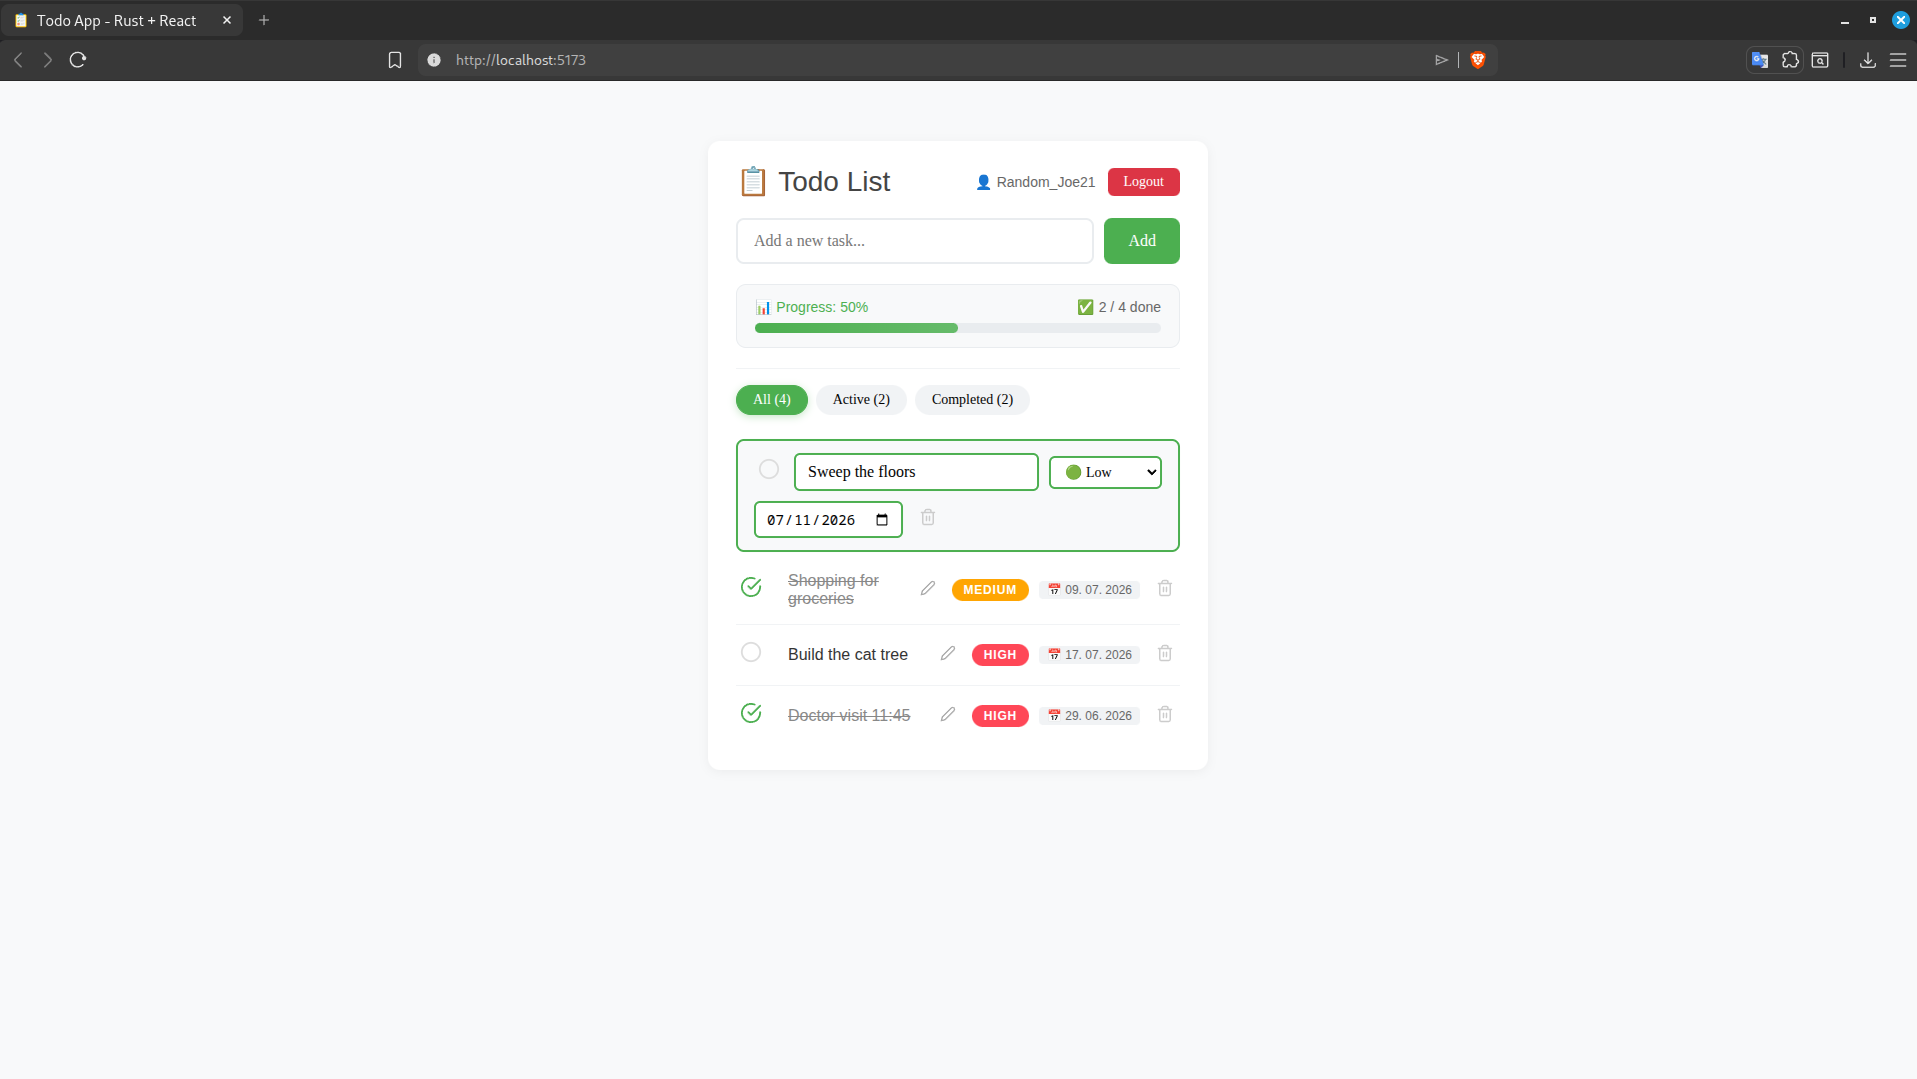
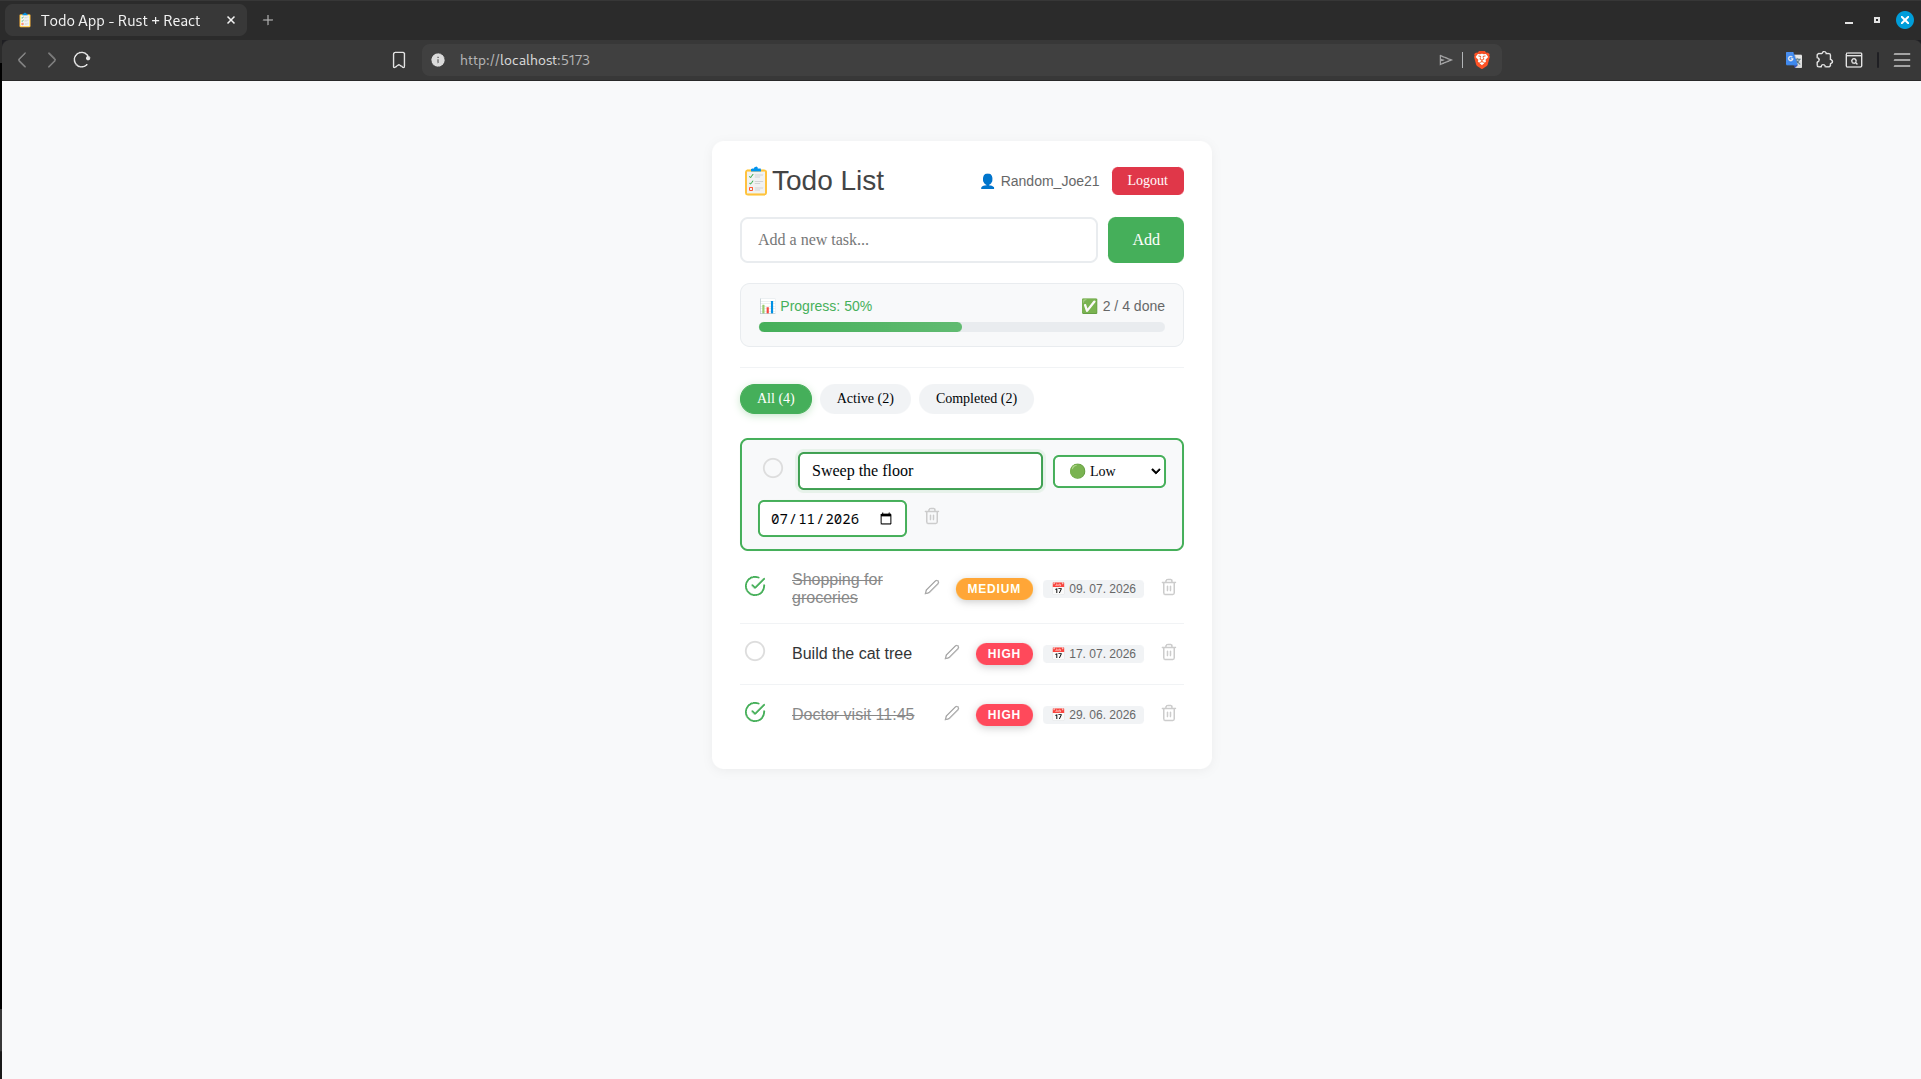
docs: update README and demo screenshot
- Update project structure with new migrations and auth modules
- Fix database schema formatting in README
- Add user_id column and indexes to tasks table
- Update setup instructions with database initialization
- Refresh demo screenshot to reflect latest UI changes

diff --git a/README.md b/README.md
@@ -44,7 +44,8 @@ todo-app-rs/
 │   ├── migrations/          # SQL migrations
 │   │   ├── 20240610000000_create_tasks.sql
 │   │   ├── 20240610000001_create_users.sql
-│   │   └── 20240612000000_add_indexes.sql
+│   │   ├── 20240612000000_add_indexes.sql
+│   │   └── 20240613000000_add_user_id_to_tasks.sql
 │   ├── .env                 # Environment variables
 │   └── Cargo.toml
 └── frontend/
@@ -306,8 +307,11 @@ CREATE TABLE tasks (
     priority TEXT DEFAULT 'medium',
     due_date TEXT,
     created_at TEXT NOT NULL
+	user_id TEXT NOT NULL DEFAULT
 );
 
+-- Create index for faster user-specific queries
+CREATE INDEX idx_tasks_user_id ON tasks(user_id);
 CREATE INDEX idx_tasks_completed ON tasks(completed);
 CREATE INDEX idx_tasks_priority ON tasks(priority);
 CREATE INDEX idx_tasks_created_at ON tasks(created_at DESC);